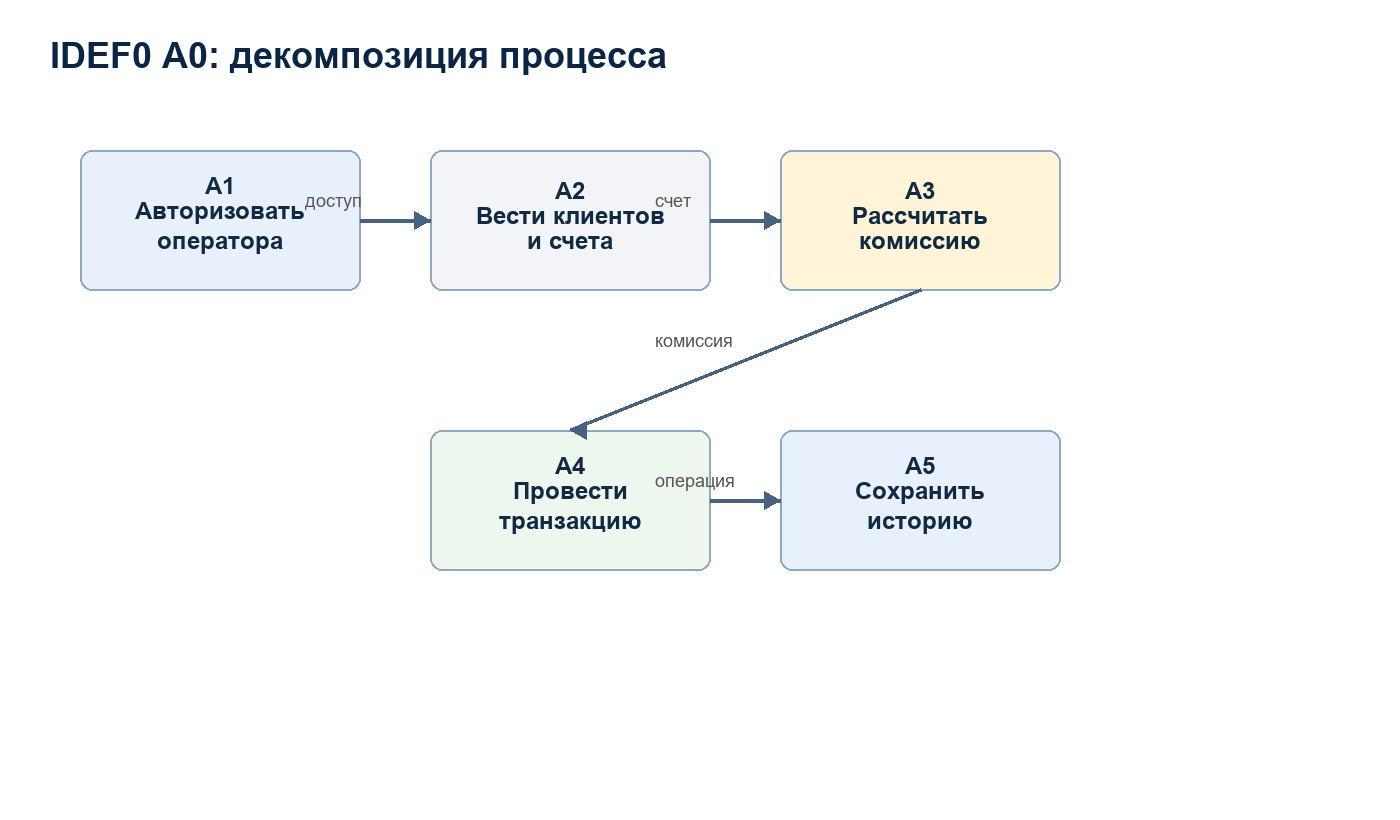
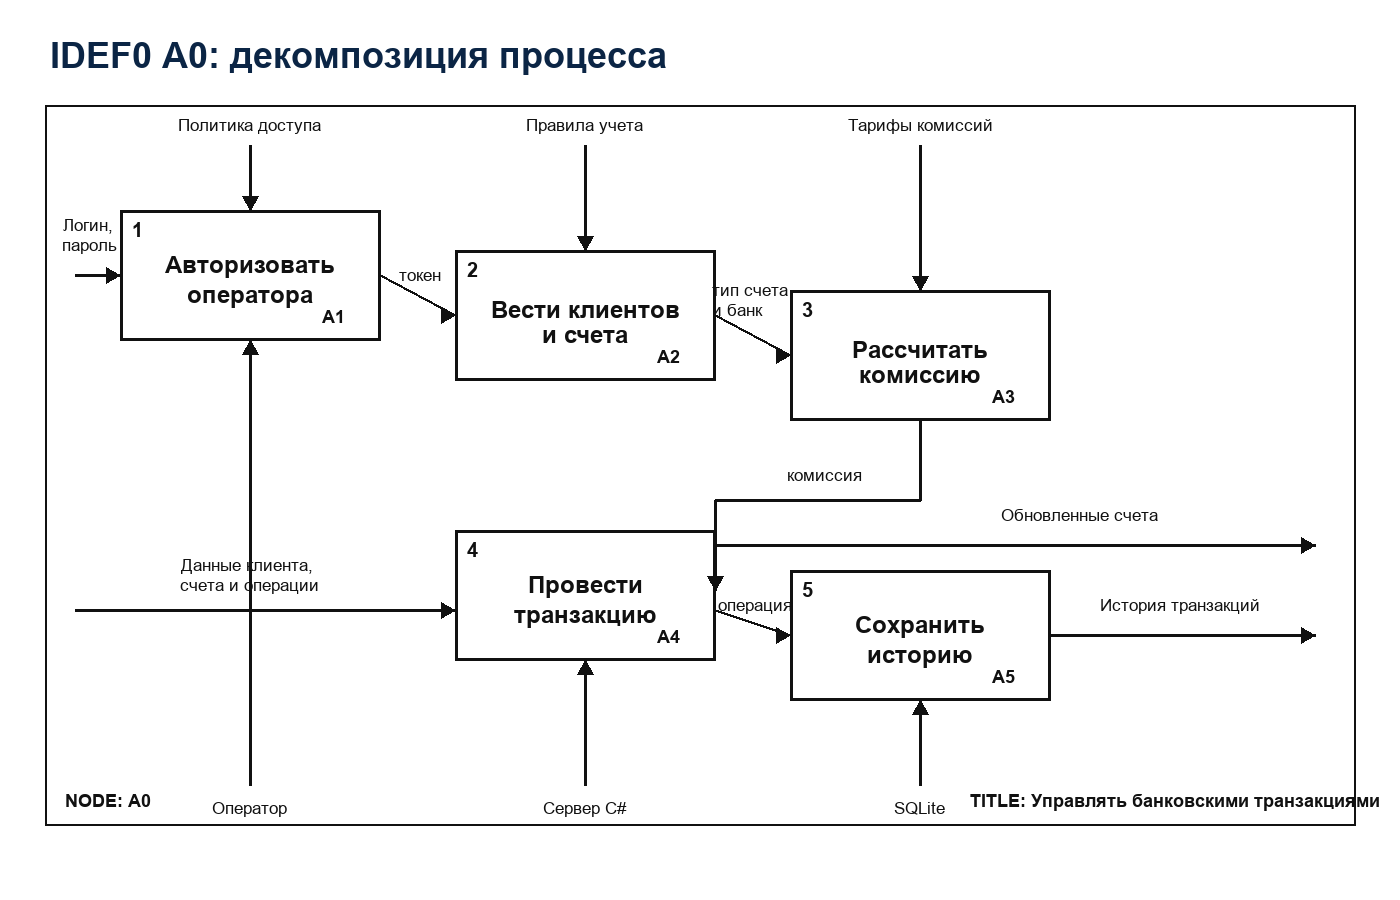
Redraw IDEF diagrams

diff --git a/tools/build_report.py b/tools/build_report.py
@@ -1,6 +1,7 @@
 from __future__ import annotations
 
 from pathlib import Path
+from xml.sax.saxutils import escape
 from PIL import Image, ImageDraw, ImageFont
 from docx import Document
 from docx.enum.section import WD_SECTION
@@ -49,6 +50,76 @@ def arrow(draw, start, end, color="#46627F"):
     else:
         points = [(x2, y2), (x2 + 16, y2 - 9), (x2 + 16, y2 + 9)]
     draw.polygon(points, fill=color)
+
+
+def draw_multiline_center(draw, box, text, size=24, bold=True, fill="#102A43"):
+    x1, y1, x2, y2 = box
+    lines = text.split("\n")
+    fonts = [font(size, bold) for _ in lines]
+    heights = [draw.textbbox((0, 0), line, font=f)[3] - draw.textbbox((0, 0), line, font=f)[1] for line, f in zip(lines, fonts)]
+    total_h = sum(heights) + (len(lines) - 1) * 8
+    y = y1 + ((y2 - y1) - total_h) / 2
+    for line, f, h in zip(lines, fonts, heights):
+        bbox = draw.textbbox((0, 0), line, font=f)
+        draw.text((x1 + ((x2 - x1) - (bbox[2] - bbox[0])) / 2, y), line, fill=fill, font=f)
+        y += h + 8
+
+
+def idef_function_box(draw, xy, title, node, number=None):
+    draw.rectangle(xy, fill="#FFFFFF", outline="#111111", width=3)
+    draw_multiline_center(draw, xy, title, size=24, bold=True, fill="#111111")
+    x1, y1, x2, y2 = xy
+    if number is not None:
+        draw.text((x1 + 12, y1 + 8), str(number), fill="#111111", font=font(20, True))
+    draw.text((x2 - 58, y2 - 34), node, fill="#111111", font=font(18, True))
+
+
+def label(draw, text, xy, size=18, anchor="mm"):
+    draw.text(xy, text, fill="#111111", font=font(size), anchor=anchor)
+
+
+def line_arrow(draw, points, color="#111111", width=3):
+    draw.line(points, fill=color, width=width)
+    x1, y1 = points[-2]
+    x2, y2 = points[-1]
+    if abs(x2 - x1) >= abs(y2 - y1):
+        if x2 >= x1:
+            head = [(x2, y2), (x2 - 14, y2 - 8), (x2 - 14, y2 + 8)]
+        else:
+            head = [(x2, y2), (x2 + 14, y2 - 8), (x2 + 14, y2 + 8)]
+    else:
+        if y2 >= y1:
+            head = [(x2, y2), (x2 - 8, y2 - 14), (x2 + 8, y2 - 14)]
+        else:
+            head = [(x2, y2), (x2 - 8, y2 + 14), (x2 + 8, y2 + 14)]
+    draw.polygon(head, fill=color)
+
+
+def write_drawio(name, title, vertices, edges):
+    cells = [
+        '<mxCell id="0"/>',
+        '<mxCell id="1" parent="0"/>',
+    ]
+    for idx, (label_text, x, y, w, h, style) in enumerate(vertices, start=2):
+        cells.append(
+            f'<mxCell id="v{idx}" value="{escape(label_text)}" style="{style}" vertex="1" parent="1">'
+            f'<mxGeometry x="{x}" y="{y}" width="{w}" height="{h}" as="geometry"/></mxCell>'
+        )
+    for idx, (label_text, points, style) in enumerate(edges, start=1):
+        pts = "".join(f'<mxPoint x="{x}" y="{y}" as="{kind}"/>' for kind, x, y in points)
+        cells.append(
+            f'<mxCell id="e{idx}" value="{escape(label_text)}" style="{style}" edge="1" parent="1">'
+            f'<mxGeometry relative="1" as="geometry">{pts}</mxGeometry></mxCell>'
+        )
+    xml = (
+        '<mxfile host="app.diagrams.net">'
+        f'<diagram name="{escape(title)}"><mxGraphModel dx="1400" dy="820" grid="1" gridSize="10" guides="1" '
+        'tooltips="1" connect="1" arrows="1" fold="1" page="1" pageScale="1" '
+        'pageWidth="1400" pageHeight="820" math="0" shadow="0"><root>'
+        + "".join(cells)
+        + '</root></mxGraphModel></diagram></mxfile>'
+    )
+    (OUT_DIR / name).write_text(xml, encoding="utf-8")
 
 
 def save_architecture():
@@ -149,49 +220,152 @@ def save_simple_flow(name, title, nodes, links):
 
 
 def save_idef0_context():
-    nodes = [
-        ("input", "Данные клиента\nи операция", (70, 335, 350, 485), "#E8F1FB"),
-        ("system", "A-0\nУправлять\nбанковскими\nтранзакциями", (530, 285, 870, 535), "#F2F4F7"),
-        ("control", "Правила банка\nкомиссии\nавторизация", (530, 120, 870, 230), "#FFF4D8"),
-        ("mechanism", "C# приложение\nSQLite\nоператор", (530, 610, 870, 740), "#EEF7EE"),
-        ("output", "Обновленные счета\nистория транзакций", (1030, 335, 1330, 485), "#E8F1FB"),
-    ]
-    links = [
-        ("input", "system", "вход"),
-        ("control", "system", "управление"),
-        ("mechanism", "system", "механизмы"),
-        ("system", "output", "выход"),
-    ]
-    return save_simple_flow("idef0_context.png", "IDEF0 A-0: контекстная диаграмма", nodes, links)
+    img = Image.new("RGB", (1400, 820), "#FFFFFF")
+    draw = ImageDraw.Draw(img)
+    draw.text((50, 35), "IDEF0 A-0: контекстная диаграмма", fill="#0B2545", font=font(36, True))
+    draw.rectangle((45, 105, 1355, 755), outline="#111111", width=2)
+    box = (480, 310, 920, 520)
+    idef_function_box(draw, box, "Управлять\nбанковскими\nтранзакциями", "A-0")
+
+    line_arrow(draw, [(90, 390), (480, 390)])
+    label(draw, "Данные клиента", (245, 360))
+    line_arrow(draw, [(90, 450), (480, 450)])
+    label(draw, "Данные операции", (250, 420))
+
+    line_arrow(draw, [(570, 145), (570, 310)])
+    label(draw, "Правила банка", (570, 125), size=16)
+    line_arrow(draw, [(700, 145), (700, 310)])
+    label(draw, "Комиссии", (700, 125), size=16)
+    line_arrow(draw, [(830, 145), (830, 310)])
+    label(draw, "Авторизация", (830, 125), size=16)
+
+    line_arrow(draw, [(920, 390), (1310, 390)])
+    label(draw, "Обновленные счета", (1095, 360))
+    line_arrow(draw, [(920, 450), (1310, 450)])
+    label(draw, "История транзакций", (1100, 420))
+
+    line_arrow(draw, [(570, 710), (570, 520)])
+    label(draw, "Оператор", (570, 735))
+    line_arrow(draw, [(700, 710), (700, 520)])
+    label(draw, "C#/.NET", (700, 735))
+    line_arrow(draw, [(830, 710), (830, 520)])
+    label(draw, "SQLite", (830, 735))
+
+    draw.text((65, 715), "NODE: A-0", fill="#111111", font=font(18, True))
+    draw.text((975, 715), "TITLE: Банковские транзакции", fill="#111111", font=font(18, True))
+    write_drawio(
+        "idef0_context.drawio",
+        "IDEF0 A-0",
+        [("Управлять<br>банковскими<br>транзакциями<br><br>A-0", 520, 310, 360, 210, "whiteSpace=wrap;html=1;rounded=0;strokeColor=#111111;fillColor=#ffffff;strokeWidth=3;")],
+        [],
+    )
+    path = OUT_DIR / "idef0_context.png"
+    img.save(path)
+    return path
 
 
 def save_idef0_decomposition():
-    nodes = [
-        ("a1", "A1\nАвторизовать\nоператора", (80, 150, 360, 290), "#E8F1FB"),
-        ("a2", "A2\nВести клиентов\nи счета", (430, 150, 710, 290), "#F2F4F7"),
-        ("a3", "A3\nРассчитать\nкомиссию", (780, 150, 1060, 290), "#FFF4D8"),
-        ("a4", "A4\nПровести\nтранзакцию", (430, 430, 710, 570), "#EEF7EE"),
-        ("a5", "A5\nСохранить\nисторию", (780, 430, 1060, 570), "#E8F1FB"),
-    ]
-    links = [
-        ("a1", "a2", "доступ"),
-        ("a2", "a3", "счет"),
-        ("a3", "a4", "комиссия"),
-        ("a4", "a5", "операция"),
-    ]
-    return save_simple_flow("idef0_decomposition.png", "IDEF0 A0: декомпозиция процесса", nodes, links)
+    img = Image.new("RGB", (1400, 900), "#FFFFFF")
+    draw = ImageDraw.Draw(img)
+    draw.text((50, 35), "IDEF0 A0: декомпозиция процесса", fill="#0B2545", font=font(36, True))
+    draw.rectangle((45, 105, 1355, 825), outline="#111111", width=2)
+    boxes = {
+        "a1": (120, 210, 380, 340, "Авторизовать\nоператора", "A1", 1),
+        "a2": (455, 250, 715, 380, "Вести клиентов\nи счета", "A2", 2),
+        "a3": (790, 290, 1050, 420, "Рассчитать\nкомиссию", "A3", 3),
+        "a4": (455, 530, 715, 660, "Провести\nтранзакцию", "A4", 4),
+        "a5": (790, 570, 1050, 700, "Сохранить\nисторию", "A5", 5),
+    }
+    for _, (x1, y1, x2, y2, text, node, number) in boxes.items():
+        idef_function_box(draw, (x1, y1, x2, y2), text, node, number)
+
+    line_arrow(draw, [(75, 275), (120, 275)])
+    label(draw, "Логин,\nпароль", (90, 235), size=17)
+    line_arrow(draw, [(75, 610), (455, 610)])
+    label(draw, "Данные клиента,\nсчета и операции", (250, 575), size=17)
+
+    line_arrow(draw, [(250, 145), (250, 210)])
+    label(draw, "Политика доступа", (250, 125), size=17)
+    line_arrow(draw, [(585, 145), (585, 250)])
+    label(draw, "Правила учета", (585, 125), size=17)
+    line_arrow(draw, [(920, 145), (920, 290)])
+    label(draw, "Тарифы комиссий", (920, 125), size=17)
+
+    line_arrow(draw, [(380, 275), (455, 315)])
+    label(draw, "токен", (420, 275), size=17)
+    line_arrow(draw, [(715, 315), (790, 355)])
+    label(draw, "тип счета\nи банк", (750, 300), size=17)
+    line_arrow(draw, [(920, 420), (920, 500), (715, 500), (715, 590)])
+    label(draw, "комиссия", (825, 475), size=17)
+    line_arrow(draw, [(715, 610), (790, 635)])
+    label(draw, "операция", (755, 605), size=17)
+
+    line_arrow(draw, [(715, 545), (1315, 545)])
+    label(draw, "Обновленные счета", (1080, 515), size=17)
+    line_arrow(draw, [(1050, 635), (1315, 635)])
+    label(draw, "История транзакций", (1180, 605), size=17)
+
+    line_arrow(draw, [(585, 785), (585, 660)])
+    label(draw, "Сервер C#", (585, 808), size=17)
+    line_arrow(draw, [(920, 785), (920, 700)])
+    label(draw, "SQLite", (920, 808), size=17)
+    line_arrow(draw, [(250, 785), (250, 340)])
+    label(draw, "Оператор", (250, 808), size=17)
+
+    draw.text((65, 790), "NODE: A0", fill="#111111", font=font(18, True))
+    draw.text((970, 790), "TITLE: Управлять банковскими транзакциями", fill="#111111", font=font(18, True))
+    write_drawio(
+        "idef0_decomposition.drawio",
+        "IDEF0 A0",
+        [(data[4] + f"<br><br>{data[5]}", data[0], data[1], data[2] - data[0], data[3] - data[1], "whiteSpace=wrap;html=1;rounded=0;strokeColor=#111111;fillColor=#ffffff;strokeWidth=3;") for data in boxes.values()],
+        [],
+    )
+    path = OUT_DIR / "idef0_decomposition.png"
+    img.save(path)
+    return path
 
 
 def save_idef3():
-    nodes = [
-        ("n1", "1. Вход\nв систему", (70, 330, 290, 460), "#E8F1FB"),
-        ("n2", "2. Выбор\nсчетов", (350, 330, 570, 460), "#F2F4F7"),
-        ("n3", "3. Проверка\nбаланса", (630, 330, 850, 460), "#FFF4D8"),
-        ("n4", "4. Списание\nи зачисление", (910, 330, 1130, 460), "#EEF7EE"),
-        ("n5", "5. Запись\nтранзакции", (1190, 330, 1370, 460), "#E8F1FB"),
+    img = Image.new("RGB", (1400, 820), "#FFFFFF")
+    draw = ImageDraw.Draw(img)
+    draw.text((50, 35), "IDEF3: сценарий проведения перевода", fill="#0B2545", font=font(36, True))
+    draw.rectangle((45, 105, 1355, 755), outline="#111111", width=2)
+    uobs = [
+        ("UOB 1", "Выполнить\nавторизацию", (90, 300, 300, 430)),
+        ("UOB 2", "Выбрать счет\nсписания и счет\nполучателя", (360, 300, 610, 430)),
+        ("UOB 3", "Проверить баланс\nс учетом комиссии", (670, 300, 920, 430)),
+        ("UOB 4", "Списать сумму\nи комиссию", (1010, 210, 1260, 340)),
+        ("UOB 5", "Записать отказ\nв операции", (690, 520, 940, 650)),
+        ("UOB 6", "Сохранить\nтранзакцию", (1010, 610, 1260, 710)),
     ]
-    links = [("n1", "n2", ""), ("n2", "n3", ""), ("n3", "n4", ""), ("n4", "n5", "")]
-    return save_simple_flow("idef3.png", "IDEF3: сценарий перевода", nodes, links)
+    for code, text, xy in uobs:
+        draw.rectangle(xy, fill="#FFFFFF", outline="#111111", width=3)
+        x1, y1, x2, y2 = xy
+        draw.text((x1 + 8, y1 + 6), code, fill="#111111", font=font(16, True))
+        draw_multiline_center(draw, (x1, y1 + 22, x2, y2), text, size=20, bold=True, fill="#111111")
+    junction = (965, 365)
+    draw.ellipse((junction[0] - 22, junction[1] - 22, junction[0] + 22, junction[1] + 22), fill="#FFFFFF", outline="#111111", width=3)
+    draw.text((junction[0] - 6, junction[1] - 14), "X", fill="#111111", font=font(22, True))
+    line_arrow(draw, [(300, 365), (360, 365)])
+    line_arrow(draw, [(610, 365), (670, 365)])
+    line_arrow(draw, [(920, 365), (943, 365)])
+    line_arrow(draw, [(987, 365), (1010, 275)])
+    label(draw, "достаточно средств", (1110, 190), size=16)
+    line_arrow(draw, [(965, 387), (965, 585), (940, 585)])
+    label(draw, "недостаточно средств", (850, 495), size=16)
+    line_arrow(draw, [(1135, 340), (1135, 610)])
+    label(draw, "после списания", (1225, 480), size=16)
+    draw.text((65, 710), "SCENARIO: перевод между счетами", fill="#111111", font=font(18, True))
+    draw.text((1135, 710), "IDEF3: UOB + XOR junction", fill="#111111", font=font(18, True))
+    write_drawio(
+        "idef3.drawio",
+        "IDEF3",
+        [(f"{code}<br>{text.replace(chr(10), '<br>')}", xy[0], xy[1], xy[2] - xy[0], xy[3] - xy[1], "whiteSpace=wrap;html=1;rounded=0;strokeColor=#111111;fillColor=#ffffff;strokeWidth=3;") for code, text, xy in uobs],
+        [],
+    )
+    path = OUT_DIR / "idef3.png"
+    img.save(path)
+    return path
 
 
 def save_dfd():